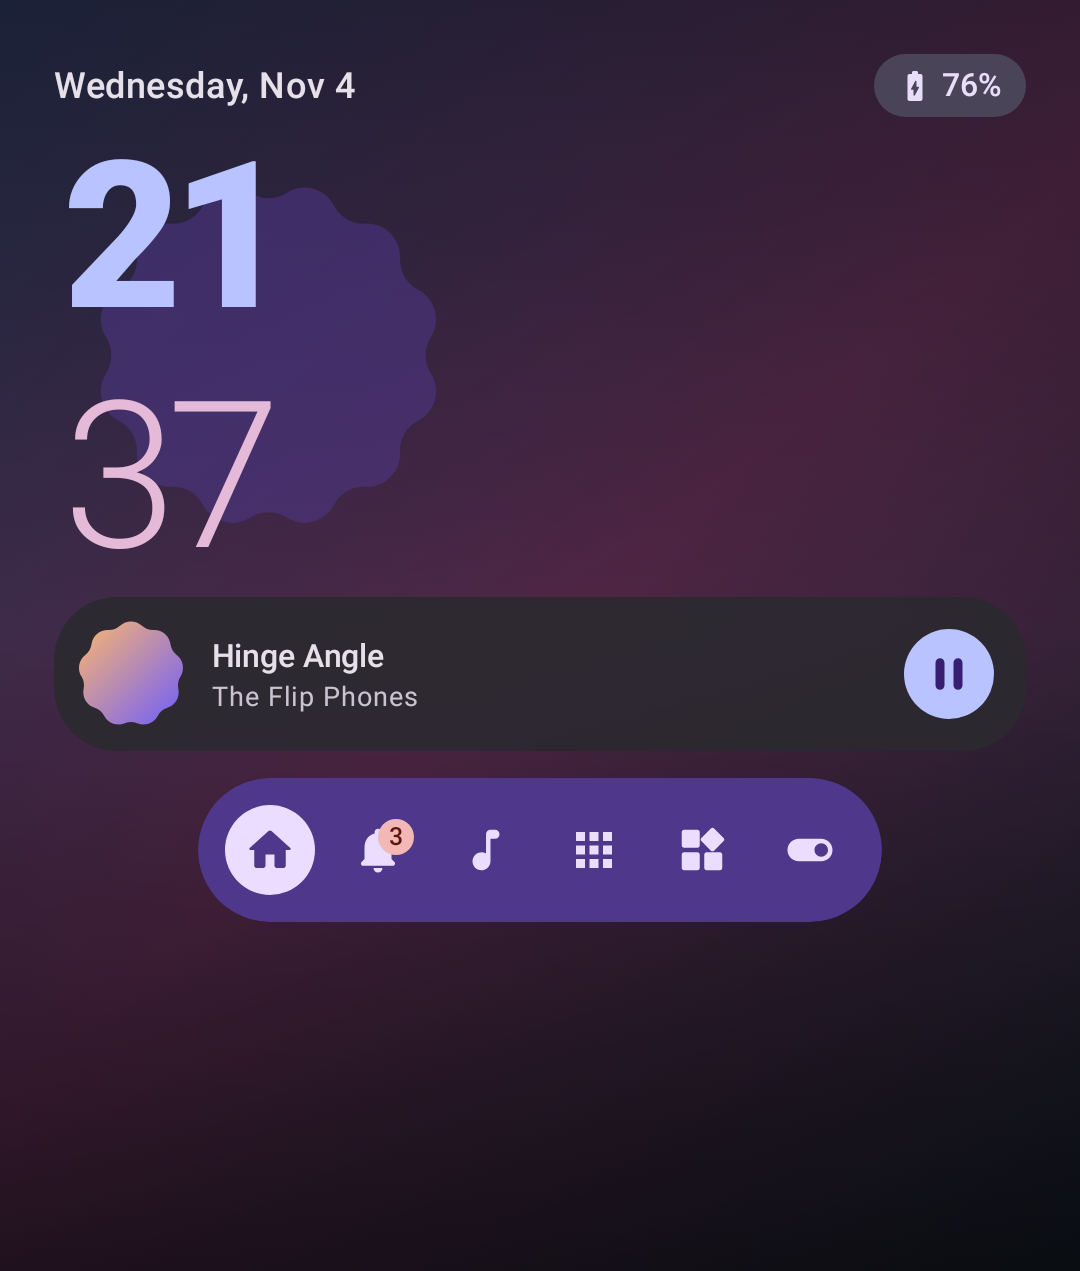
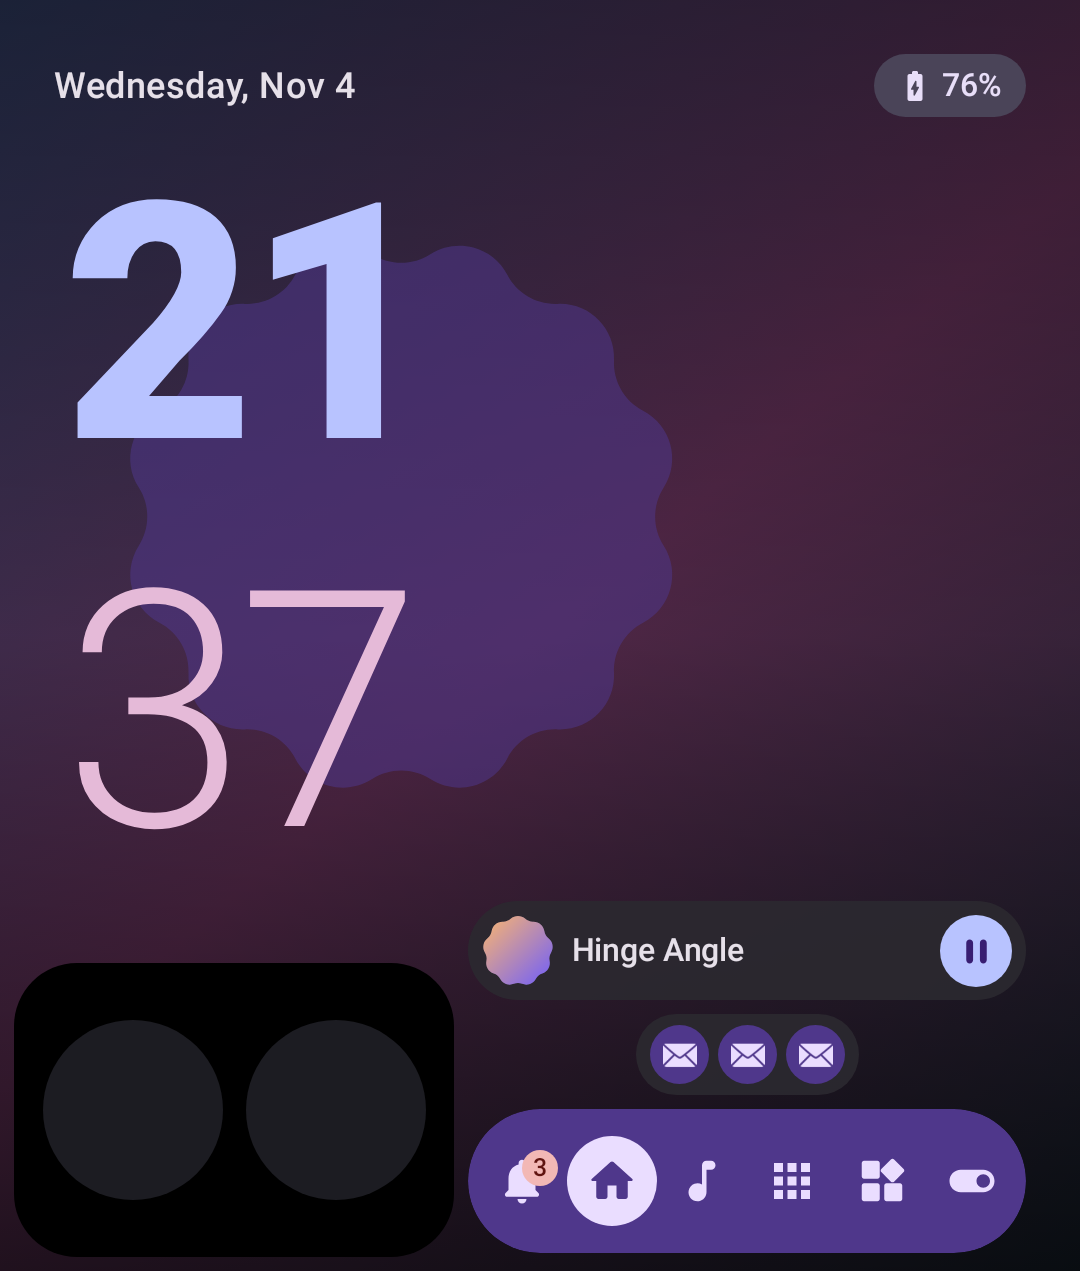
test: cover the dock and the idle clock in screenshots
Screens are rendered with the arcfox camera block drawn in. Adds the idle
Home and Home with everything moved out of the dock.

diff --git a/app/src/test/java/com/tuki/flipslop/ui/CoverScreenshotTest.kt b/app/src/test/java/com/tuki/flipslop/ui/CoverScreenshotTest.kt
@@ -22,6 +22,7 @@ import androidx.compose.ui.graphics.Color
 import androidx.test.core.app.ApplicationProvider
 import com.github.takahirom.roborazzi.captureRoboImage
 import com.tuki.flipslop.apps.AppEntry
+import com.tuki.flipslop.core.DeviceProfile
 import com.tuki.flipslop.data.CoverPage
 import com.tuki.flipslop.media.MediaState
 import com.tuki.flipslop.notifications.CoverAction
@@ -30,6 +31,7 @@ import com.tuki.flipslop.toggles.ToggleStates
 import com.tuki.flipslop.ui.cover.BatteryInfo
 import com.tuki.flipslop.ui.cover.CoverScreen
 import com.tuki.flipslop.ui.cover.CoverUiState
+import com.tuki.flipslop.ui.cover.DockConfig
 import com.tuki.flipslop.ui.cover.NoopCoverActions
 import com.tuki.flipslop.ui.theme.FlipSlopTheme
 import java.util.Calendar
@@ -44,7 +46,7 @@ import org.robolectric.annotation.GraphicsMode
 
 /**
  * Renders every cover pane at the arcfox cover configuration: 1080x1272 px at
- * 360 dpi = 480x565 dp, with the 143 dp bottom margin from the device tree.
+ * 360 dpi = 480x565 dp, with the camera block from the arcfox profile drawn in.
  */
 @RunWith(RobolectricTestRunner::class)
 @GraphicsMode(GraphicsMode.Mode.NATIVE)
@@ -52,8 +54,11 @@ import org.robolectric.annotation.GraphicsMode
 class CoverScreenshotTest {
 
     private val context: Context = ApplicationProvider.getApplicationContext()
+    private val arcfox = DeviceProfile.ARCFOX
 
     @Test fun home() = shoot(CoverPage.HOME)
+    @Test fun homeIdle() = shoot(CoverPage.HOME, idle = true, name = "home_idle")
+    @Test fun homeClassicDock() = shoot(CoverPage.HOME, docked = false, name = "home_classic")
     @Test fun notifications() = shoot(CoverPage.NOTIFICATIONS)
     @Test fun media() = shoot(CoverPage.MEDIA)
     @Test fun apps() = shoot(CoverPage.APPS)
@@ -63,8 +68,19 @@ class CoverScreenshotTest {
     @get:Rule
     val compose = createComposeRule()
 
-    private fun shoot(page: CoverPage) {
-        val state = sampleState()
+    private fun shoot(
+        page: CoverPage,
+        idle: Boolean = false,
+        docked: Boolean = true,
+        name: String = page.name.lowercase(),
+    ) {
+        val full = sampleState()
+        val state = full.copy(
+            notifications = if (idle) emptyList() else full.notifications,
+            media = if (idle) null else full.media,
+            locked = idle,
+            dock = full.dock.copy(toolbar = docked, notifications = docked, media = docked),
+        )
         // The clock, wavy progress and media ticker never go idle: drive time by hand.
         compose.mainClock.autoAdvance = false
         compose.setContent {
@@ -80,7 +96,7 @@ class CoverScreenshotTest {
             }
         }
         compose.mainClock.advanceTimeBy(1_500)
-        compose.onRoot().captureRoboImage("screenshots/cover_${page.name.lowercase()}.png")
+        compose.onRoot().captureRoboImage("screenshots/cover_$name.png")
     }
 
     private fun sampleState(): CoverUiState {
@@ -119,8 +135,10 @@ class CoverScreenshotTest {
             pinnedApps = apps.take(6),
             allApps = apps,
             toggles = ToggleStates(torchAvailable = true, torch = false, dnd = true, wifi = true, bluetooth = true, bluetoothAvailable = true, brightness = 0.6f, canWriteSettings = true),
-            bottomInsetDp = 143,
+            bottomInsetDp = arcfox.coverBottomInsetDp,
             edgePaddingDp = 24,
+            dock = DockConfig(cameraSide = arcfox.coverCameraSide, cameraWidthDp = arcfox.coverCameraWidthDp),
+            showCameraGuide = true,
         )
     }
 
